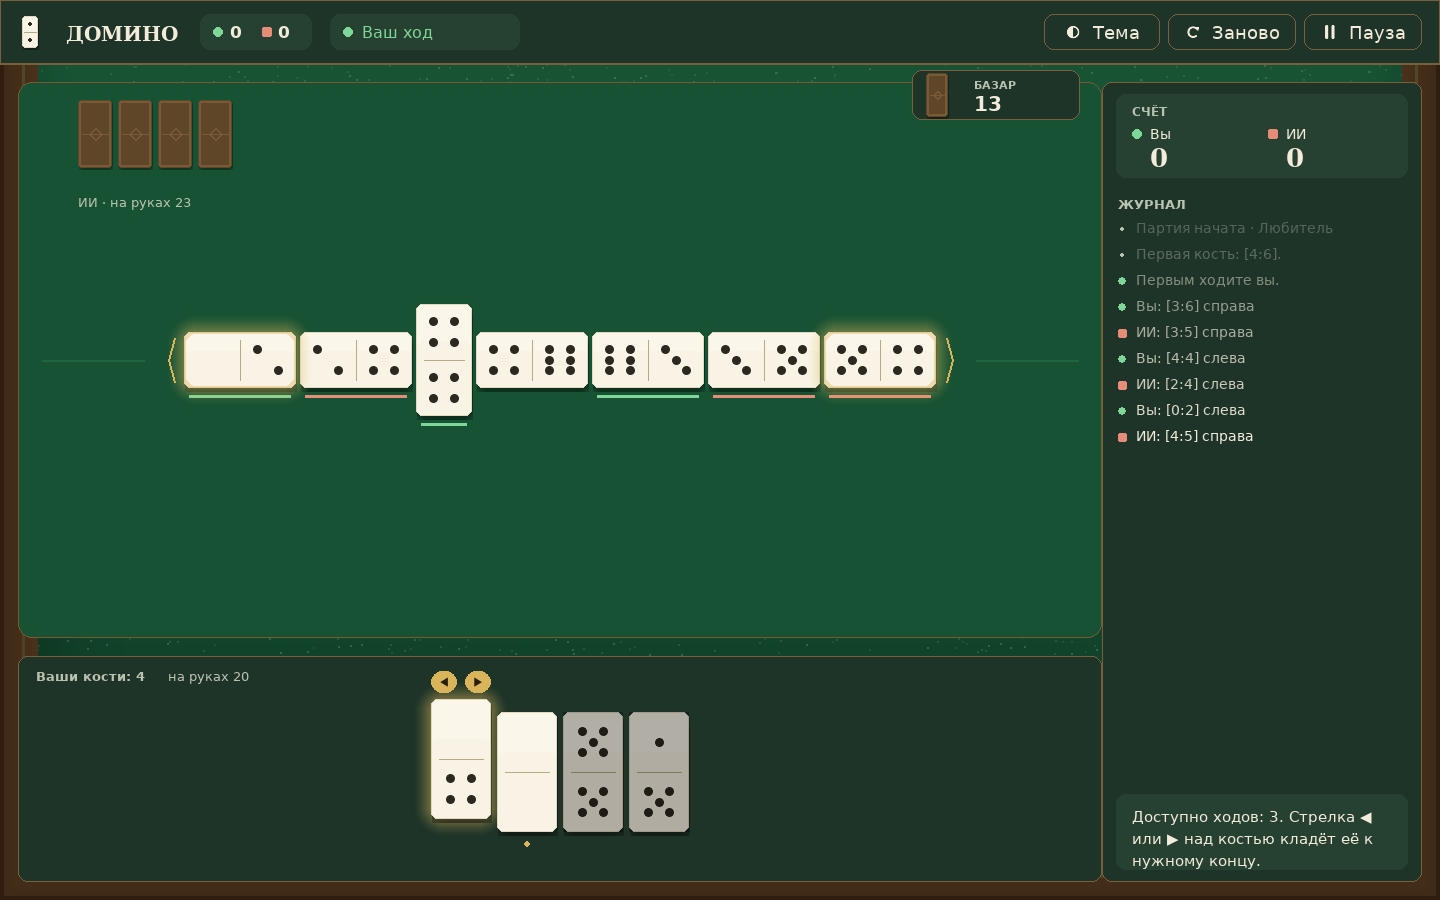
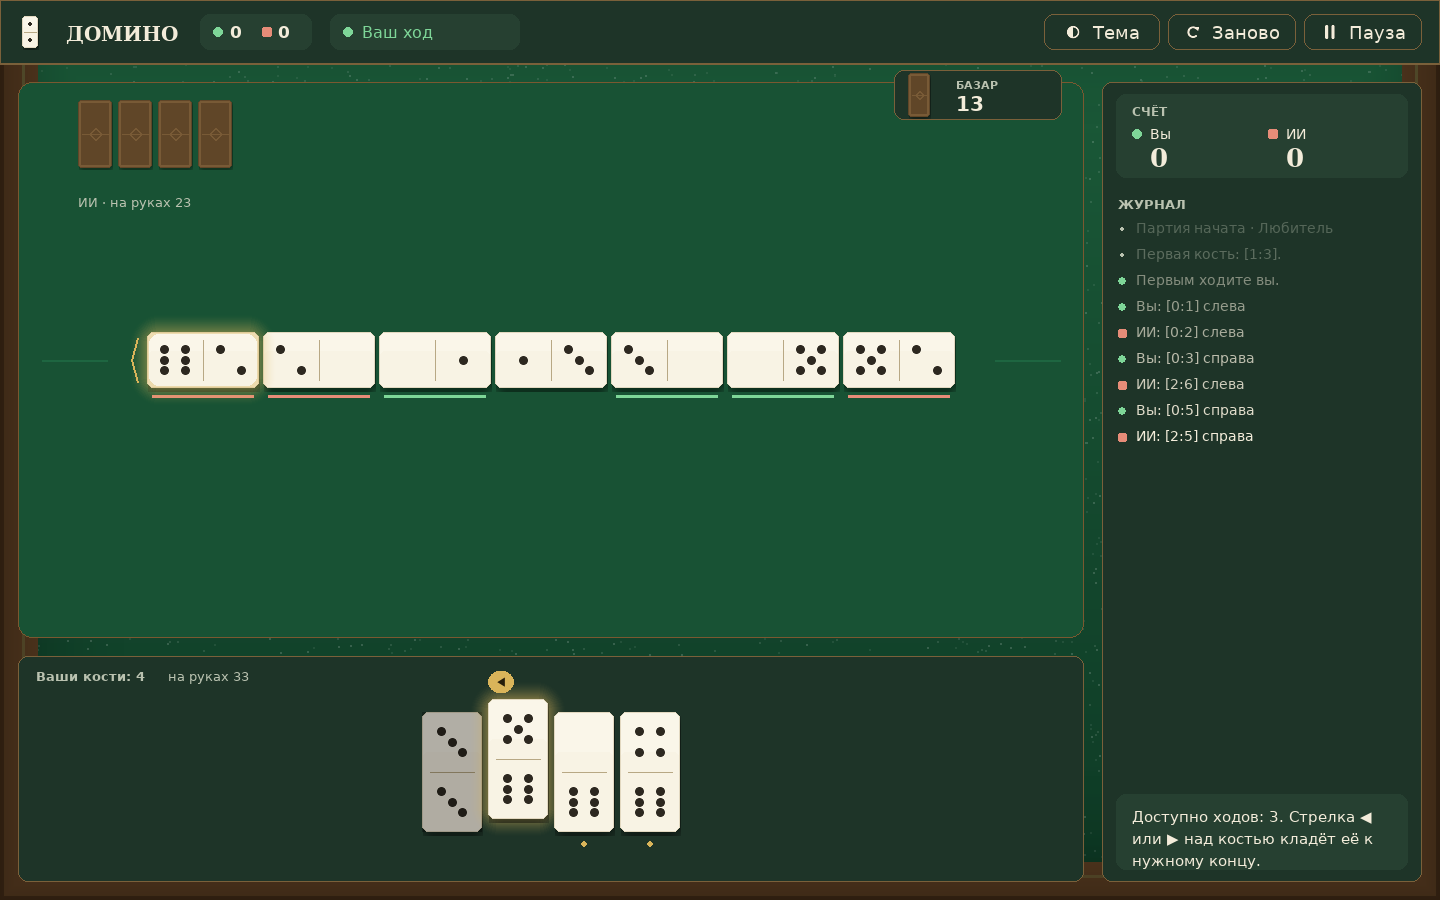
Возвращён отступ между полем и правой панелью
При переходе на раскладку «от краёв окна» ширина левой колонки считалась как
w - SIDEBAR_W - margin*2, то есть включала зазор до сайдбара. Поле и панель
руки упирались прямо в правую панель.

- ширина колонки теперь считается от фактической позиции сайдбара:
  sidebar.left - margin*2, поэтому все три зазора (слева, между полем и
  сайдбаром, справа) равны BOARD_MARGIN;
- добавлены тесты на вертикальный зазор поле/сайдбар, рука/сайдбар и на
  равенство всех семи отступов. На прежней формуле падают три из них.

diff --git a/tests/test_layout.py b/tests/test_layout.py
@@ -30,6 +30,37 @@ def test_board_and_hand_are_separated(app):
     assert gap == settings.BOARD_MARGIN, f'зазор {gap} вместо {settings.BOARD_MARGIN}'
 
 
+def test_board_and_sidebar_are_separated(app):
+    """Регрессия: после правки раскладки поле прилипло к правой панели."""
+    scene = GameScene(app)
+    gap = scene.sidebar_rect.left - scene.board_rect.right
+    assert gap == settings.BOARD_MARGIN, f'зазор {gap} вместо {settings.BOARD_MARGIN}'
+
+
+def test_hand_and_sidebar_are_separated(app):
+    """Панель руки тоже не должна касаться правой панели."""
+    scene = GameScene(app)
+    gap = scene.sidebar_rect.left - scene.hand_rect.right
+    assert gap == settings.BOARD_MARGIN, f'зазор {gap} вместо {settings.BOARD_MARGIN}'
+
+
+def test_all_gaps_are_equal(app):
+    """Все зазоры между областями и краями одинаковы."""
+    scene = GameScene(app)
+    margin = settings.BOARD_MARGIN
+    gaps = {
+        'левый край': scene.board_rect.left,
+        'правый край': settings.W - scene.sidebar_rect.right,
+        'верх': scene.board_rect.top - settings.TOPBAR_H,
+        'низ': settings.H - scene.hand_rect.bottom,
+        'поле/рука': scene.hand_rect.top - scene.board_rect.bottom,
+        'поле/сайдбар': scene.sidebar_rect.left - scene.board_rect.right,
+        'рука/сайдбар': scene.sidebar_rect.left - scene.hand_rect.right,
+    }
+    for name, gap in gaps.items():
+        assert gap == margin, f'{name}: {gap} вместо {margin}'
+
+
 def test_margins_are_symmetric(app):
     """Отступы от краёв окна одинаковы со всех сторон."""
     scene = GameScene(app)

diff --git a/domino/ui/scenes.py b/domino/ui/scenes.py
@@ -245,22 +245,27 @@ class GameScene(Scene):
         content_top = settings.TOPBAR_H + margin
         content_bottom = h - margin
 
-        self.hand_rect = pg.Rect(
-            margin,
-            content_bottom - settings.HAND_H,
-            w - settings.SIDEBAR_W - margin * 2,
-            settings.HAND_H,
-        )
         self.sidebar_rect = pg.Rect(
             w - settings.SIDEBAR_W - margin,
             content_top,
             settings.SIDEBAR_W,
             content_bottom - content_top,
         )
+
+        # Ширина левой колонки: от левого края до сайдбара минус зазор между
+        # ними, иначе поле прилипает к правой панели.
+        column_width = self.sidebar_rect.left - margin * 2
+
+        self.hand_rect = pg.Rect(
+            margin,
+            content_bottom - settings.HAND_H,
+            column_width,
+            settings.HAND_H,
+        )
         self.board_rect = pg.Rect(
             margin,
             content_top,
-            self.hand_rect.width,
+            column_width,
             self.hand_rect.top - margin - content_top,
         )
         self.hand.panel = self.hand_rect
